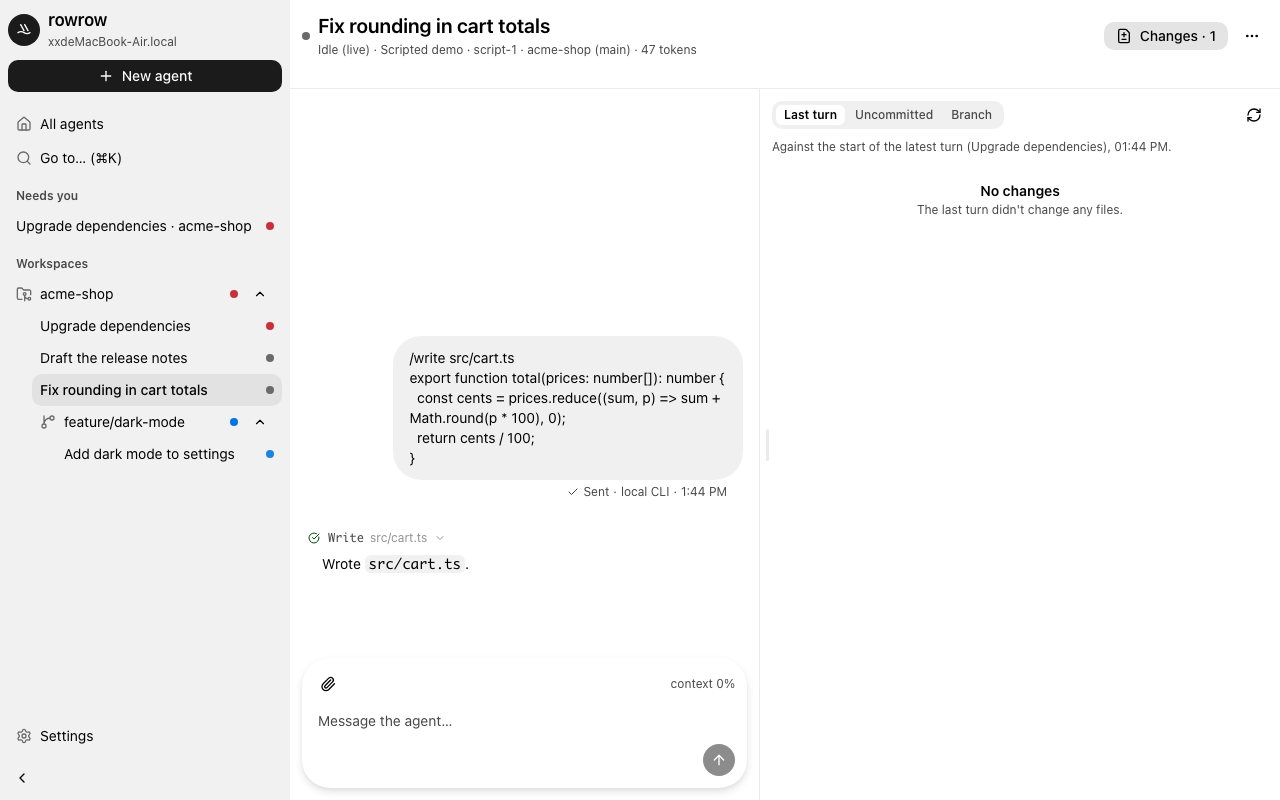
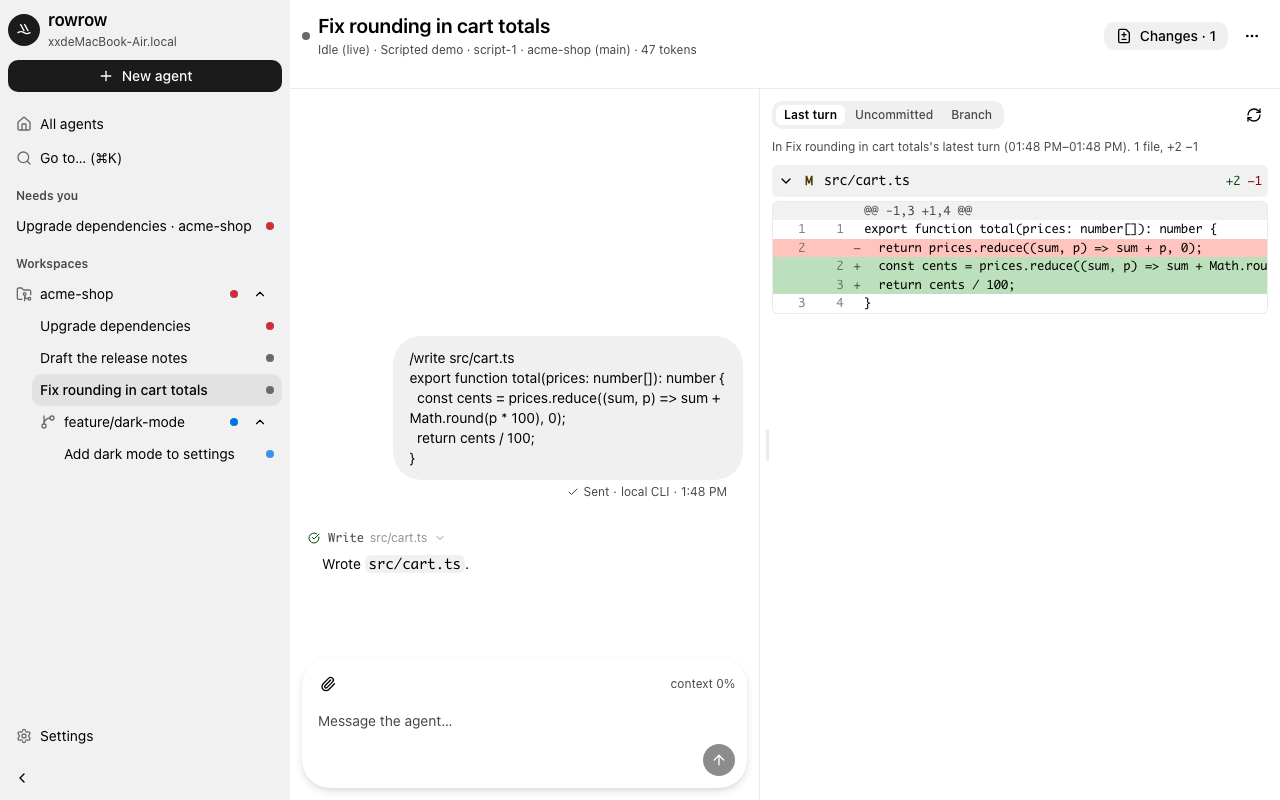
docs: README screenshots from the demo; tool details by kind
- scripts/demo.ts seeds agents in every state; pnpm shot captured the README images
- an expanded tool call shows a command as $ command + output, an edit as what it wrote,
  anything else as its input and output
- a worktree's branch isn't repeated next to its label

Changed region(s): [[0.5938, 0.2188, 1.0, 0.375], [0.5938, 0.1562, 0.9375, 0.1875]]

diff --git a/src/web/components/Transcript.tsx b/src/web/components/Transcript.tsx
@@ -330,12 +330,7 @@ function ToolGroup({ parts, runtime }: { parts: ViewPart[]; runtime: string }) {
     if (part.kind !== "tool") return [];
     const action = classifyTool(runtime, part.tool, part.input);
     const output = part.output ?? "";
-    const detail = [
-      part.input === undefined ? null : `$ ${pretty(part.input)}`,
-      output === "" ? null : output,
-    ]
-      .filter((p) => p !== null)
-      .join("\n\n");
+    const detail = toolDetail(action.kind, part.input, output);
     return [
       {
         key: part.callId,
@@ -343,13 +338,13 @@ function ToolGroup({ parts, runtime }: { parts: ViewPart[]; runtime: string }) {
         status: part.result === "running" ? "running" : part.result === "failed" ? "error" : "complete",
         ...(action.detail === undefined ? {} : { target: action.detail }),
         ...(part.result === "failed" ? { errorMessage: output.slice(0, 300) } : {}),
-        ...(detail === ""
+        ...(detail === null
           ? {}
           : {
               resultDetail: (
                 <CodeBlock
-                  code={detail.slice(0, 20_000)}
-                  language="bash"
+                  code={detail.code.slice(0, 20_000)}
+                  language={detail.language}
                   width="100%"
                   maxHeight={320}
                   isWrapped
@@ -362,20 +357,49 @@ function ToolGroup({ parts, runtime }: { parts: ViewPart[]; runtime: string }) {
   return <ChatToolCalls calls={calls} />;
 }
 
-/** Tool input is JSON from most runtimes; show it readable. */
-function pretty(input: string): string {
+/**
+ * What an expanded tool call shows: a command as `$ command` then its output; an edit as
+ * the text it wrote; anything else as its input (JSON, pretty) then its output.
+ */
+function toolDetail(
+  kind: string,
+  input: string | undefined,
+  output: string,
+): { code: string; language: "bash" | "json" | "markdown" } | null {
+  const parsed = parse(input);
+  const field = (...names: string[]): string | null => {
+    for (const name of names) {
+      const value = parsed?.[name];
+      if (typeof value === "string") return value;
+      if (Array.isArray(value) && value.every((v) => typeof v === "string")) return value.join(" ");
+    }
+    return null;
+  };
+  const join = (...parts: (string | null)[]): string =>
+    parts.filter((p) => p !== null && p !== "").join("\n\n");
+  if (kind === "run_command") {
+    const command = field("command", "cmd") ?? input ?? "";
+    return { code: join(`$ ${command}`, output), language: "bash" };
+  }
+  if (kind === "edit_file") {
+    const written = field("content", "new_string", "patch", "diff");
+    if (written !== null)
+      return { code: join(written, output === "" ? null : `→ ${output}`), language: "markdown" };
+  }
+  const shown = parsed === null ? (input ?? null) : JSON.stringify(parsed, null, 2);
+  const code = join(shown, output);
+  return code === "" ? null : { code, language: parsed === null ? "markdown" : "json" };
+}
+
+function parse(input: string | undefined): Record<string, unknown> | null {
+  if (input === undefined) return null;
   try {
     const value: unknown = JSON.parse(input);
-    if (value !== null && typeof value === "object") {
-      const record = value as Record<string, unknown>;
-      const command = record["command"] ?? record["cmd"];
-      if (typeof command === "string") return command;
-      if (Array.isArray(command)) return command.join(" ");
-      return JSON.stringify(value, null, 2);
-    }
-    return String(value);
+    return value !== null && typeof value === "object" && !Array.isArray(value)
+      ? (value as Record<string, unknown>)
+      : null;
   } catch {
-    return input;
+    return null;
   }
 }
 

diff --git a/src/web/pages/HomePage.tsx b/src/web/pages/HomePage.tsx
@@ -101,7 +101,7 @@ function AgentRow({ agent, state, now }: { agent: AgentState; state: AppState; n
     <ListItem
       href={`/a/${agent.id}`}
       label={title(agent)}
-      description={`${dot.label} · ${ws?.label ?? "?"}${ws?.git?.branch !== undefined && ws.git.branch !== null ? ` (${ws.git.branch})` : ""} · ${runtime}${detail === "" ? "" : ` — ${oneLine(detail)}`}`}
+      description={`${dot.label} · ${ws?.label ?? "?"}${ws?.git?.branch !== undefined && ws.git.branch !== null && ws.git.branch !== ws.label ? ` (${ws.git.branch})` : ""} · ${runtime}${detail === "" ? "" : ` — ${oneLine(detail)}`}`}
       startContent={<StatusDot variant={dot.variant} label={dot.label} isPulsing={dot.pulsing} />}
       endContent={<Text type="supporting">{ago(agent.summary.lastActivityAt, now)}</Text>}
     />

diff --git a/src/web/pages/AgentPage.tsx b/src/web/pages/AgentPage.tsx
@@ -95,7 +95,7 @@ function AgentView({ agent, state }: { agent: AgentState; state: AppState }) {
     summary.reportedEffort ?? summary.effort,
     ws === undefined
       ? null
-      : `${ws.label}${ws.git?.branch === null || ws.git?.branch === undefined ? "" : ` (${ws.git.branch})`}`,
+      : `${ws.label}${ws.git?.branch === null || ws.git?.branch === undefined || ws.git.branch === ws.label ? "" : ` (${ws.git.branch})`}`,
     summary.usage === null ? null : `${formatTokens(summary.usage.input + summary.usage.output)} tokens`,
   ].filter((fact): fact is string => fact !== null && fact !== undefined);
 

diff --git a/src/web/components/ChangesView.tsx b/src/web/components/ChangesView.tsx
@@ -123,7 +123,7 @@ export function ChangesView({
       </HStack>
       {changes !== null && (
         <Text type="supporting">
-          {changes.baseLabel === null ? "" : `Against ${changes.baseLabel}. `}
+          {changes.baseLabel === null ? "" : `${scope === "turn" ? "In" : "Against"} ${changes.baseLabel}. `}
           {changes.files.length === 0
             ? ""
             : `${changes.files.length} file${changes.files.length === 1 ? "" : "s"}, +${total?.add ?? 0} −${total?.del ?? 0}${changes.truncated ? " (first 2000 files)" : ""}`}

diff --git a/README.md b/README.md
@@ -12,6 +12,15 @@ terminal. Agents are driven through their programmatic interfaces with
 screen scraping), transcripts are structured, and a phone on a flaky network is a
 first-class client.
 
+<p align="center">
+  <img src="docs/images/agent.png" alt="An agent's transcript next to what its last turn changed" width="820">
+</p>
+<p align="center">
+  <img src="docs/images/phone-home.png" alt="Agents sorted by who needs you, on a phone" width="240">
+  &nbsp;
+  <img src="docs/images/phone-agent.png" alt="An agent's conversation on a phone" width="240">
+</p>
+
 - **Attention first.** Every agent is `blocked`, `done` (finished and you haven't looked),
   `working` or `idle`. Lists sort by it; you get a notification when an agent finishes or
   needs you, and never for the one you're looking at.
@@ -19,9 +28,12 @@ first-class client.
   continues, and every client resumes exactly where it left off.
 - **Talk to them anywhere.** Send, steer a running turn, queue for the next one, or stop.
   A retried send is never delivered twice.
-- **See what they changed.** The *last turn* diff shows what the agent just did, apart
-  from your own uncommitted work (a snapshot taken when the turn started, stored outside
-  your repository). Uncommitted and whole-branch scopes too.
+- **See what they changed, and answer in place.** The *last turn* diff shows exactly what
+  an agent's latest turn changed (snapshots at its start and end, stored outside your
+  repository), apart from your own work; uncommitted and whole-branch scopes too. Comment
+  on diff lines and the comments become one review message in the agent's composer.
+- **Hand them anything.** Paste or drop a screenshot or a log; it's uploaded to the
+  machine and mentioned by path.
 - **Parallel work in worktrees.** One click makes a git worktree on a fresh branch from
   origin's default branch, grouped under its repository, with your repo's setup hooks.
 - **Built to be debugged by agents.** Everything the UI does is a typed API the `rowrow`
@@ -44,7 +56,8 @@ browser in and opens it. rowrow has no passwords: browsers sign in with one-time
 every signed-in device can be revoked in Settings.
 
 Try it without spending tokens: `pnpm dev` runs a development server with a scripted demo
-agent.
+agent, and `node scripts/demo.ts --profile dev` fills it with a few agents in every state.
+Keyboard: ⌘K goes anywhere, ⌘J goes to the next agent that needs you.
 
 ## On your phone
 
